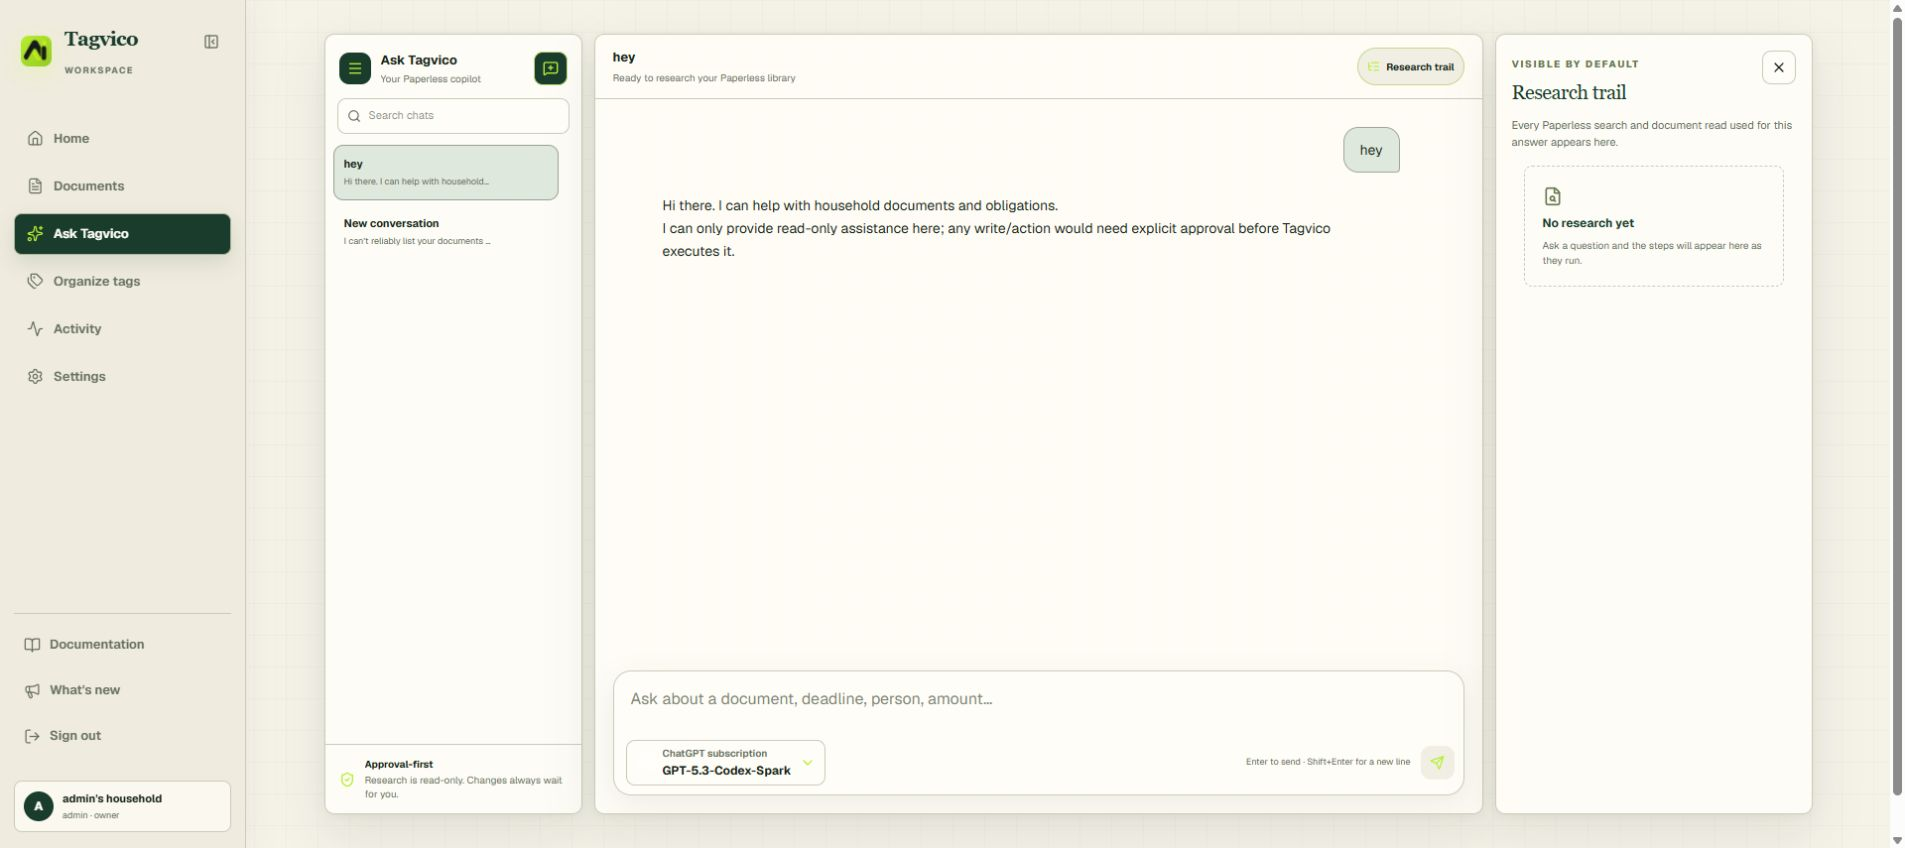
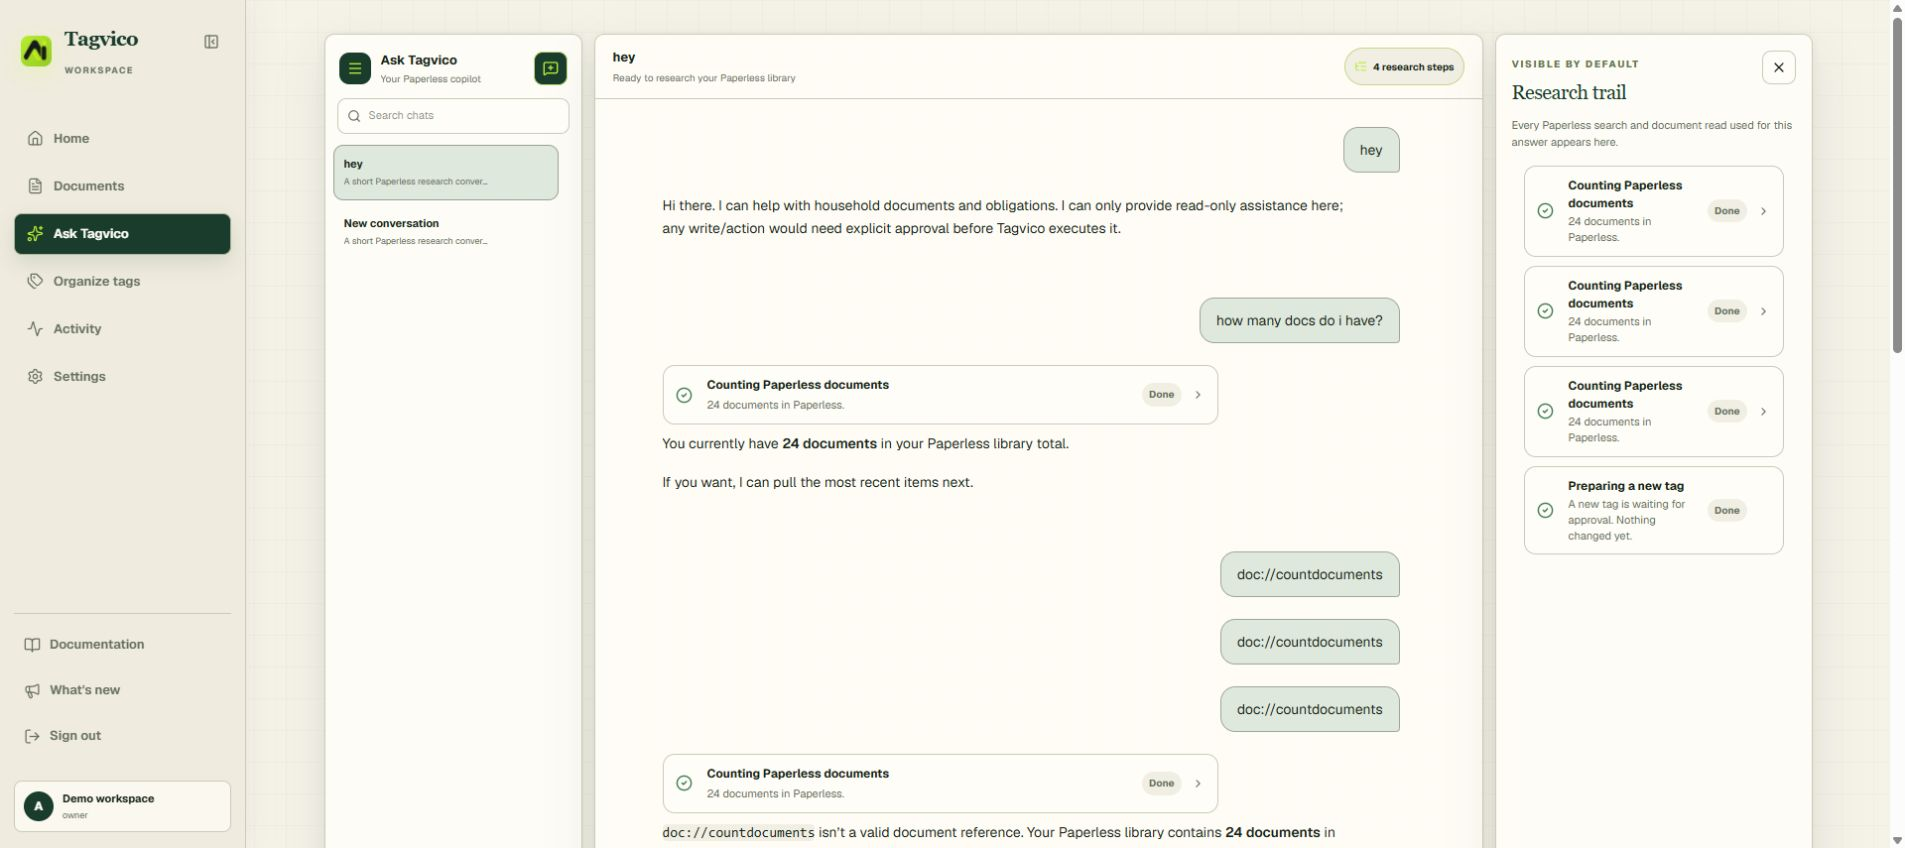
fix: close release review gaps

diff --git a/src/lib/changelog.ts b/src/lib/changelog.ts
@@ -10,10 +10,10 @@ export type ChangelogEntry = {
 export const changelogEntries: ChangelogEntry[] = [
   {
     version: '3.2.0',
-    date: 'Coming soon',
+    date: '26 July 2026',
     title: 'Paper & Pine workspace',
     summary: 'One calmer Tagvico interface, an inspectable research workspace and a clearer path from documents to safe action.',
-    status: 'unreleased',
+    status: 'released',
     groups: [
       {
         title: 'One coherent product',
@@ -30,8 +30,9 @@ export const changelogEntries: ChangelogEntry[] = [
           'Conversations, answers and the live research trail now form one three-column workspace.',
           'Paperless searches, reads, safe source metadata and result counts stay visible as the selected model works.',
           'Document and tag reads run immediately, while every document or tag mutation becomes a durable approval card before Paperless can change.',
+          'Document approvals show the proposed values, and tag deletion stops if the approved name or linked-document count changed.',
           'The model picker groups live models inside collapsible configured providers and shows only reasoning levels supported by the selected model.',
-          'Explicit document shortcuts work without leaking internal non-document citation markers into the answer.'
+          'Saved reasoning levels remain synchronized, Ollama discovery has one bounded deadline, and explicit document shortcuts never leak internal non-document citation markers.'
         ]
       },
       {
@@ -39,7 +40,8 @@ export const changelogEntries: ChangelogEntry[] = [
         items: [
           'Duplicate cleanup now has a dedicated Organize tags workspace with a clear Analyze, Review, Move and Delete sequence.',
           'Every many-to-one proposal shows the source, target, affected documents, confidence and model before approval.',
-          'Settings keeps configuration separate from operational cleanup and uses the same field, status and section hierarchy throughout.'
+          'Settings keeps configuration separate from operational cleanup and uses the same field, status and section hierarchy throughout.',
+          'Owner-only tag organization is hidden from adult and viewer navigation.'
         ]
       },
       {

diff --git a/services/providerRegistry.ts b/services/providerRegistry.ts
@@ -337,12 +337,13 @@ function secretFor(definition: ProviderDefinition, env: Environment): string {
 async function fetchJson(
   url: string,
   headers: Record<string, string>,
-  init: { method?: string; body?: string } = {}
+  init: { method?: string; body?: string; signal?: AbortSignal } = {}
 ): Promise<unknown> {
+  const { signal, ...requestInit } = init;
   const response = await fetch(url, {
-    ...init,
+    ...requestInit,
     headers,
-    signal: AbortSignal.timeout(10_000),
+    signal: signal || AbortSignal.timeout(10_000),
     cache: 'no-store'
   });
   if (!response.ok) {
@@ -377,10 +378,11 @@ async function discoverOpenAIModels(definition: ProviderDefinition, env: Environ
 async function discoverOllamaModels(definition: ProviderDefinition, env: Environment): Promise<ModelDescriptor[]> {
   const baseUrl = baseUrlFor(definition, env);
   const apiKey = secretFor(definition, env);
+  const discoverySignal = AbortSignal.timeout(10_000);
   const authHeaders: Record<string, string> = apiKey
     ? { Authorization: `Bearer ${apiKey}` }
     : {};
-  const payload = await fetchJson(`${baseUrl}/api/tags`, authHeaders);
+  const payload = await fetchJson(`${baseUrl}/api/tags`, authHeaders, { signal: discoverySignal });
   const entries = payload && typeof payload === 'object' && Array.isArray((payload as { models?: unknown[] }).models)
     ? (payload as { models: unknown[] }).models
     : [];
@@ -400,7 +402,8 @@ async function discoverOllamaModels(definition: ProviderDefinition, env: Environ
           'Content-Type': 'application/json'
         }, {
           method: 'POST',
-          body: JSON.stringify({ model: model.id, verbose: false })
+          body: JSON.stringify({ model: model.id, verbose: false }),
+          signal: discoverySignal
         });
         const source = details && typeof details === 'object'
           ? details as { capabilities?: unknown[]; model_info?: Record<string, unknown> }

diff --git a/tests/companion-models.test.js b/tests/companion-models.test.js
@@ -271,6 +271,7 @@ test('Companion UI renders safe tool traces without dumping raw model objects', 
   assert.match(source, /companionToolActivity\(/);
   assert.doesNotMatch(source, /JSON\.stringify\(part\.(input|output)/);
   assert.doesNotMatch(source, /<pre[^>]*>\s*\{part\.(input|output)/);
+  assert.match(source, /Object\.entries\(patch\)\.map\(\(\[key, value\]\) => `\$\{key\}: \$\{approvalValue\(value\)\}`\)/);
 });
 
 test('Companion message scrolling never returns a value as an effect cleanup', () => {
@@ -285,6 +286,18 @@ test('navigation hides Review immediately in automatic write mode', () => {
   assert.match(source, /href !== '\/review' \|\| writeMode === 'review'/);
   assert.match(source, /tagvico:write-mode/);
   assert.match(settings, /new CustomEvent\('tagvico:write-mode'/);
+});
+
+test('owner-only workspaces stay out of navigation for other household roles', () => {
+  const source = fs.readFileSync(path.join(__dirname, '..', 'src', 'components', 'app-navigation-shell.tsx'), 'utf8');
+  const layout = fs.readFileSync(path.join(__dirname, '..', 'src', 'app', '(app)', 'layout.tsx'), 'utf8');
+  assert.match(source, /href !== '\/tags' \|\| workspaceRole === 'owner'/);
+  assert.match(layout, /workspaceRole=\{workspace\.role\}/);
+});
+
+test('model picker keeps the reasoning effort returned by the server', () => {
+  const source = fs.readFileSync(path.join(__dirname, '..', 'src', 'components', 'companion-model-picker.tsx'), 'utf8');
+  assert.match(source, /persisted\.reasoningEffort \? \{ reasoningEffort: persisted\.reasoningEffort \}/);
 });
 
 test('provider model lists have their own bounded scrolling surfaces', () => {

diff --git a/src/components/app-navigation-shell.tsx b/src/components/app-navigation-shell.tsx
@@ -17,10 +17,11 @@ const links = [
   { href: '/settings', label: 'Settings', description: 'Connections, models and access', Icon: Settings }
 ] as const;
 
-export function AppNavigationShell({ children, workspaceName, userLabel, initialWriteMode }: {
+export function AppNavigationShell({ children, workspaceName, userLabel, workspaceRole, initialWriteMode }: {
   children: React.ReactNode;
   workspaceName: string;
   userLabel: string;
+  workspaceRole: string;
   initialWriteMode: 'review' | 'automatic';
 }) {
   const [collapsed, setCollapsed] = useState(false);
@@ -75,7 +76,10 @@ export function AppNavigationShell({ children, workspaceName, userLabel, initial
         {collapsed ? <PanelLeftOpen aria-hidden="true" /> : <PanelLeftClose aria-hidden="true" />}
       </button>
       <nav className="nav" aria-label="Main navigation">
-        {links.filter(({ href }) => href !== '/review' || writeMode === 'review').map(({ href, label, description, Icon }) => <div className="nav-entry" key={href}>
+        {links.filter(({ href }) =>
+          (href !== '/review' || writeMode === 'review')
+          && (href !== '/tags' || workspaceRole === 'owner')
+        ).map(({ href, label, description, Icon }) => <div className="nav-entry" key={href}>
           <Link href={href} className={pathname === href || pathname.startsWith(`${href}/`) ? 'is-active' : undefined} aria-current={pathname === href ? 'page' : undefined} title={collapsed ? `${label} — ${description}` : description}>
             <Icon className="nav-icon" aria-hidden="true" />
             <span className="nav-copy">{label}</span>

diff --git a/src/components/companion.tsx b/src/components/companion.tsx
@@ -52,6 +52,17 @@ type SessionSummary = {
   updated_at: string;
 };
 
+function approvalValue(value: unknown) {
+  if (value === null) return 'None';
+  if (typeof value === 'string') return value;
+  if (typeof value === 'number' || typeof value === 'boolean') return String(value);
+  try {
+    return JSON.stringify(value);
+  } catch {
+    return 'Unable to display';
+  }
+}
+
 function approvalCopy(approval: Approval) {
   const payload = approval.payload || {};
   const patch = payload.patch && typeof payload.patch === 'object'
@@ -86,7 +97,7 @@ function approvalCopy(approval: Approval) {
       title: `Update ${String(payload.documentTitle || `document #${payload.documentId}`)}`,
       meta: `Document #${String(payload.documentId || '')}`,
       details: [
-        `Fields: ${Object.keys(patch).join(', ')}`,
+        ...Object.entries(patch).map(([key, value]) => `${key}: ${approvalValue(value)}`),
         String(payload.reason || '')
       ].filter(Boolean)
     };

diff --git a/services/approvalExecutor.ts b/services/approvalExecutor.ts
@@ -43,8 +43,16 @@ export async function executeApproval(householdId: string, approvalId: string, m
         break;
       }
       case 'paperless.tag.delete': {
-        const payload = approval.payload as { tagId: number };
-        result = await sync.deletePaperlessTag(householdId, memberId, payload.tagId);
+        const payload = approval.payload as { tagId: number; tagName?: string; documentCount?: number };
+        const expectedName = String(payload.tagName || '').trim();
+        const expectedDocumentCount = Number(payload.documentCount);
+        if (!expectedName || !Number.isSafeInteger(expectedDocumentCount) || expectedDocumentCount < 0) {
+          throw new Error('Tag deletion approval is missing its verified impact snapshot');
+        }
+        result = await sync.deletePaperlessTag(householdId, memberId, payload.tagId, {
+          name: expectedName,
+          documentCount: expectedDocumentCount
+        });
         break;
       }
       default:

diff --git a/services/actionSyncService.ts b/services/actionSyncService.ts
@@ -274,9 +274,23 @@ export async function updatePaperlessTag(
   return { ok: true, tagId, before, after };
 }
 
-export async function deletePaperlessTag(householdId: string, memberId: string | null, tagId: number) {
+export async function deletePaperlessTag(
+  householdId: string,
+  memberId: string | null,
+  tagId: number,
+  expected?: { name: string; documentCount: number }
+) {
   const client = clientFor(householdId, memberId);
   const before = await getPaperlessTag(householdId, memberId, tagId);
+  if (expected && (
+    before.name !== expected.name
+    || before.documentCount !== expected.documentCount
+  )) {
+    throw new Error(
+      `Tag changed after approval: expected “${expected.name}” with ${expected.documentCount} linked documents, `
+      + `found “${before.name}” with ${before.documentCount}. Review the deletion again.`
+    );
+  }
   await client.delete(`/tags/${tagId}/`);
   return { ok: true, tagId, deleted: before };
 }

diff --git a/tests/action-sync.test.js b/tests/action-sync.test.js
@@ -136,7 +136,18 @@ test('action sync retries local writes, isolates member credentials, and redacts
       name: 'Reviewed'
     });
     assert.equal(updatedTag.after.name, 'Reviewed');
-    const deletedTag = await sync.deletePaperlessTag(workspace.id, workspace.member_id, createdTag.tag.id);
+    await assert.rejects(
+      () => sync.deletePaperlessTag(workspace.id, workspace.member_id, createdTag.tag.id, {
+        name: 'Needs review',
+        documentCount: 0
+      }),
+      /Tag changed after approval/
+    );
+    assert.equal(tags.has('Reviewed'), true);
+    const deletedTag = await sync.deletePaperlessTag(workspace.id, workspace.member_id, createdTag.tag.id, {
+      name: 'Reviewed',
+      documentCount: 0
+    });
     assert.equal(deletedTag.deleted.name, 'Reviewed');
     await documentModel.closeDatabase();
   } finally {

diff --git a/tests/provider-registry.test.js b/tests/provider-registry.test.js
@@ -177,3 +177,13 @@ test('Ollama discovery reads live capabilities without inventing them when show 
     global.fetch = originalFetch;
   }
 });
+
+test('Ollama discovery shares one deadline across catalog detail requests', () => {
+  const source = require('node:fs').readFileSync(
+    require('node:path').join(__dirname, '..', 'services', 'providerRegistry.ts'),
+    'utf8'
+  );
+  assert.match(source, /const discoverySignal = AbortSignal\.timeout\(10_000\)/);
+  assert.match(source, /fetchJson\(`\$\{baseUrl\}\/api\/tags`, authHeaders, \{ signal: discoverySignal \}\)/);
+  assert.match(source, /body: JSON\.stringify\(\{ model: model\.id, verbose: false \}\),\s*signal: discoverySignal/);
+});

diff --git a/src/components/companion-model-picker.tsx b/src/components/companion-model-picker.tsx
@@ -83,7 +83,8 @@ export function CompanionModelPicker({ sessionId }: { sessionId: string }) {
       const persisted = body.selection || next;
       setSelection({
         providerInstanceId: persisted.providerInstanceId,
-        modelId: persisted.modelId
+        modelId: persisted.modelId,
+        ...(persisted.reasoningEffort ? { reasoningEffort: persisted.reasoningEffort } : {})
       });
     } catch (cause) {
       setError(cause instanceof Error ? cause.message : 'Could not select this model');

diff --git a/src/app/(app)/layout.tsx b/src/app/(app)/layout.tsx
@@ -12,6 +12,7 @@ export default async function AppLayout({ children }: { children: React.ReactNod
   return <AppNavigationShell
     workspaceName={workspace.name}
     userLabel={`${user.username} · ${workspace.role}`}
+    workspaceRole={workspace.role}
     initialWriteMode={settings.automation.writeMode}
   >
     {children}

diff --git a/website/versions/v3/features.md b/website/versions/v3/features.md
@@ -19,8 +19,8 @@ fields. The complete checklist and audit trail remain in Tagvico.
 ![Tagvico v3.2 Home dashboard in the Paper and Pine application shell](/screenshots/home-paper-pine-v3.png)
 
 This v3.2 capture comes from the representative release installation. It uses
-generic document metadata and exposes no document contents, account
-identifiers, credentials, or private endpoints.
+generic document metadata and synthetic workspace labels. It exposes no
+document contents, real account identifiers, credentials, or private endpoints.
 
 ## Household Companion and approvals
 
@@ -48,8 +48,9 @@ advertised by the selected model.
 
 ![Tagvico v3.2 Ask Tagvico workspace with persistent conversations, approval boundary, composer, configured model and visible research trail](/screenshots/companion-paper-pine-v3.png)
 
-The capture uses a generic greeting only. No document contents, private
-identifiers, credentials, or provider payloads are visible.
+The capture uses generic count queries and synthetic workspace labels to show
+the research trail. No document contents, real account identifiers,
+credentials, or provider payloads are visible.
 
 ## Operations at a glance
 
@@ -92,8 +93,9 @@ now-unused source tag.
 
 ![Tagvico v3.2 Organize tags workspace showing several source tags becoming one canonical target](/screenshots/tags-paper-pine-v3.png)
 
-The representative capture uses generic authentication tags. It contains no
-document content, private identifiers, credentials, or endpoints.
+The representative capture uses generic duplicate tags and synthetic workspace
+labels. It contains no document content, real account identifiers, credentials,
+or endpoints.
 
 ## Prompt control
 
